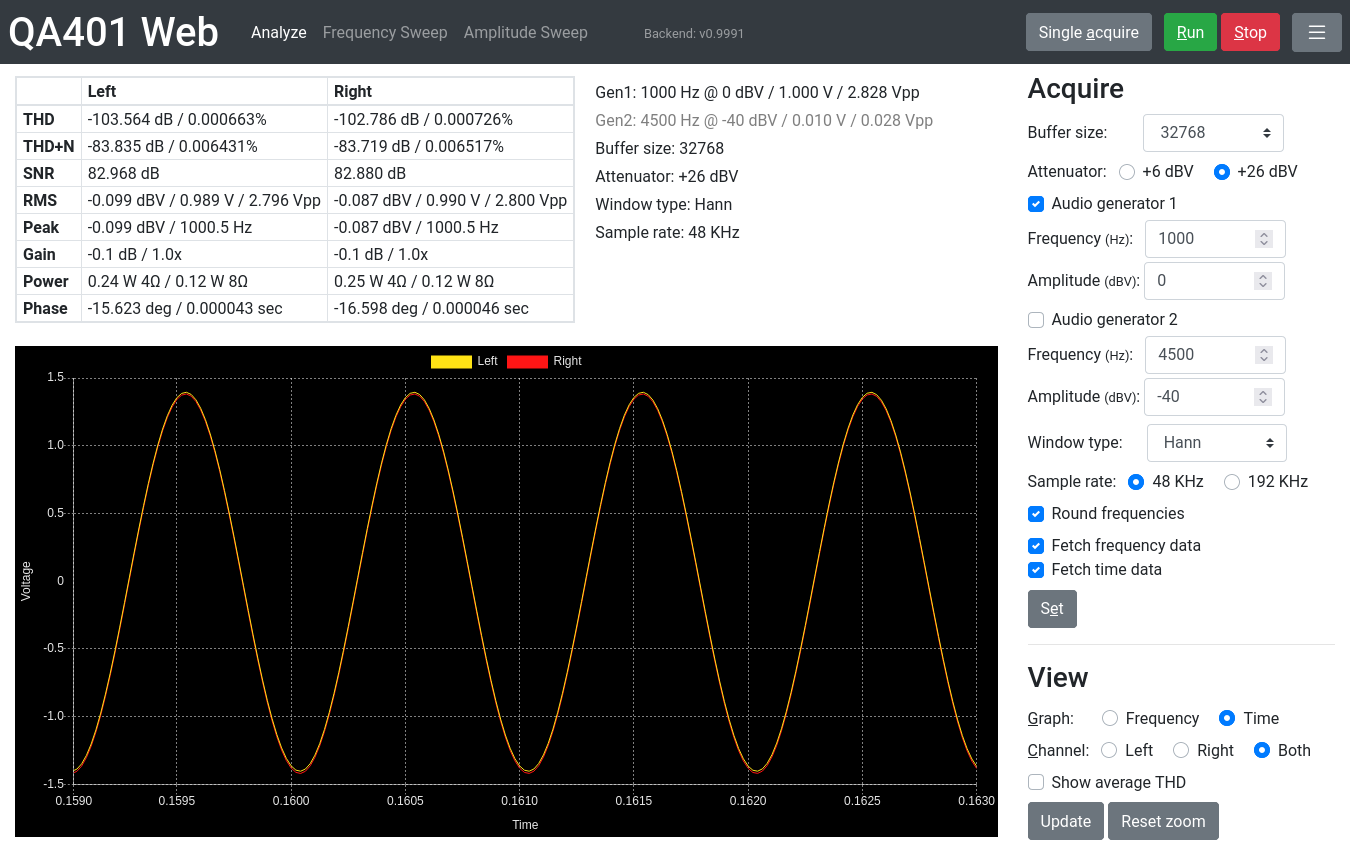
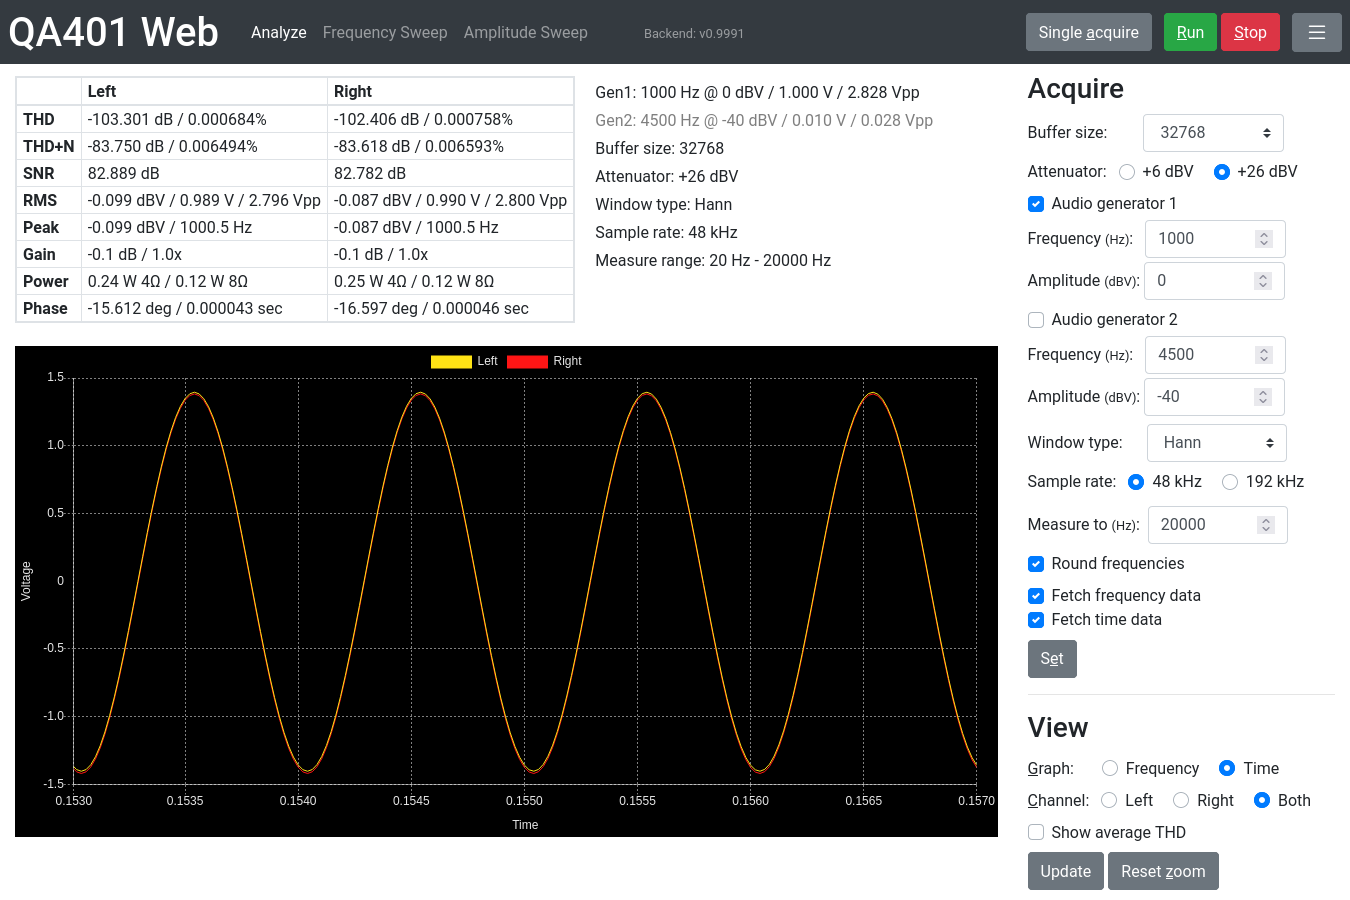
Update readme and screenshots with latest changes

diff --git a/README.md b/README.md
@@ -10,7 +10,7 @@ Please read the manual for the Windows software to understand how to use the QA4
 
 ### Analyze mode
 
-Analyze acquisitions over a frequency range of 20Hz to 20KHz using static settings.
+Analyze acquisitions over a frequency range from 20Hz to a specified stop frequency, using static settings.
 
 ![Screenshot of frequency analysis](img/qa401w-analyze-frequency.png)
 
